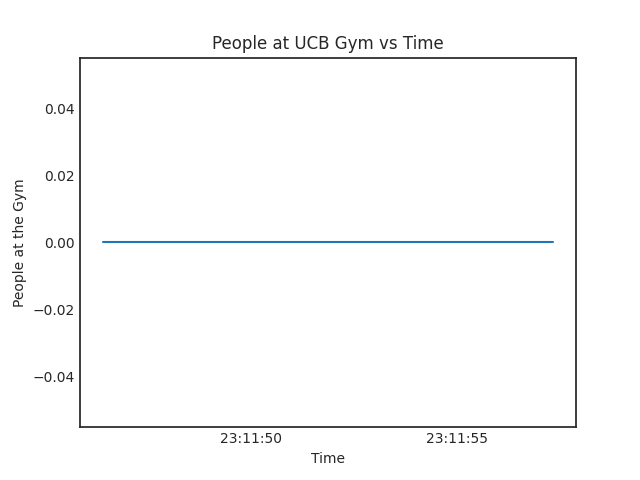
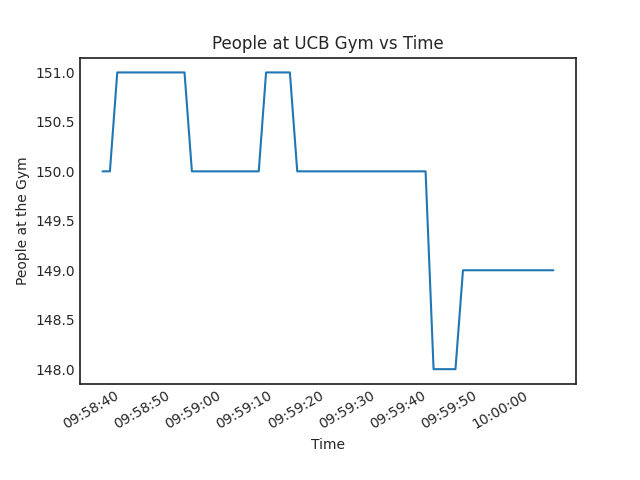
Now writes to csv in case of crash

diff --git a/WeightRoomCrowdMeter/CrowdMeterRequest.py b/WeightRoomCrowdMeter/CrowdMeterRequest.py
@@ -2,7 +2,7 @@
 import requests
 from datetime import datetime
 import time
-import matplotlib.pyplot as plt
+import csv
 
 # Defining CrowdMeter function
 def CrowdMeter():
@@ -28,26 +28,27 @@ def MeterRecorder(interval, readings):
     # Time and Number of people Variables
     done = False
     counter = 0
-    dates = []
-    datapoints = []
 
-    # Loop Over specified interval for a specified number of readings
-    while done == False:
-        date, datapoint = CrowdMeter()
-        datapoints.append(datapoint)
-        dates.append(date)
-        time.sleep(interval)
-        counter += 1
-        if counter > (readings - 1):
-            done = True
 
-    # Generation of Graph
-    plt.style.use('seaborn-white')
-    plt.xlabel('Time')
-    plt.ylabel('People at the Gym')
-    plt.title('People at UCB Gym vs Time')
-    plt.plot(dates, datapoints)
-    plt.savefig('CrowdMeterGraph.png')
+    # Opening CSV file in write mode
+    file = open('CrowdData.csv', 'w', newline = '')
+
+    # Writing to CSV
+    with file:
+
+        # Loop Over specified interval for a specified number of readings and recording data
+        while done == False:
+            date, datapoint = CrowdMeter()
+            file.write(str(date))
+            file.write(',')
+            file.write(str(datapoint))
+            file.write(',')
+            time.sleep(interval)
+            counter += 1
+            if counter > (readings - 1):
+                done = True
+
+
 
 # Run(interval, readings)
-MeterRecorder(5, 3)
+MeterRecorder(1, 60)

diff --git a/WeightRoomCrowdMeter/GraphGenerator.py b/WeightRoomCrowdMeter/GraphGenerator.py
@@ -1,0 +1,37 @@
+# Imports
+from time import strptime
+import matplotlib.pyplot as plt
+import csv
+from datetime import datetime
+import matplotlib.dates
+
+# Reading data from CrowdData.csv
+RawData = []
+with open('CrowdData.csv', 'r') as file:
+    reader = csv.reader(file)
+    for row in reader:
+        for x in row:
+            RawData.append(x.split(','))
+
+# Parsing Raw Data
+strDates = RawData[:-1:2]
+strDatapoints = RawData[1::2]
+
+dates = []
+datapoints = []
+for x in strDates:
+    dates.append(datetime.strptime(''.join(x), '%Y-%m-%d %H:%M:%S.%f'))
+
+
+for x in strDatapoints:
+    datapoints.append(int(''.join(x)))
+    
+
+# Generation of Graph
+plt.style.use('seaborn-white')
+plt.xlabel('Time')
+plt.ylabel('People at the Gym')
+plt.title('People at UCB Gym vs Time')
+plt.gcf().autofmt_xdate()
+plt.plot(dates, datapoints)
+plt.savefig('CrowdMeterGraph.png')
